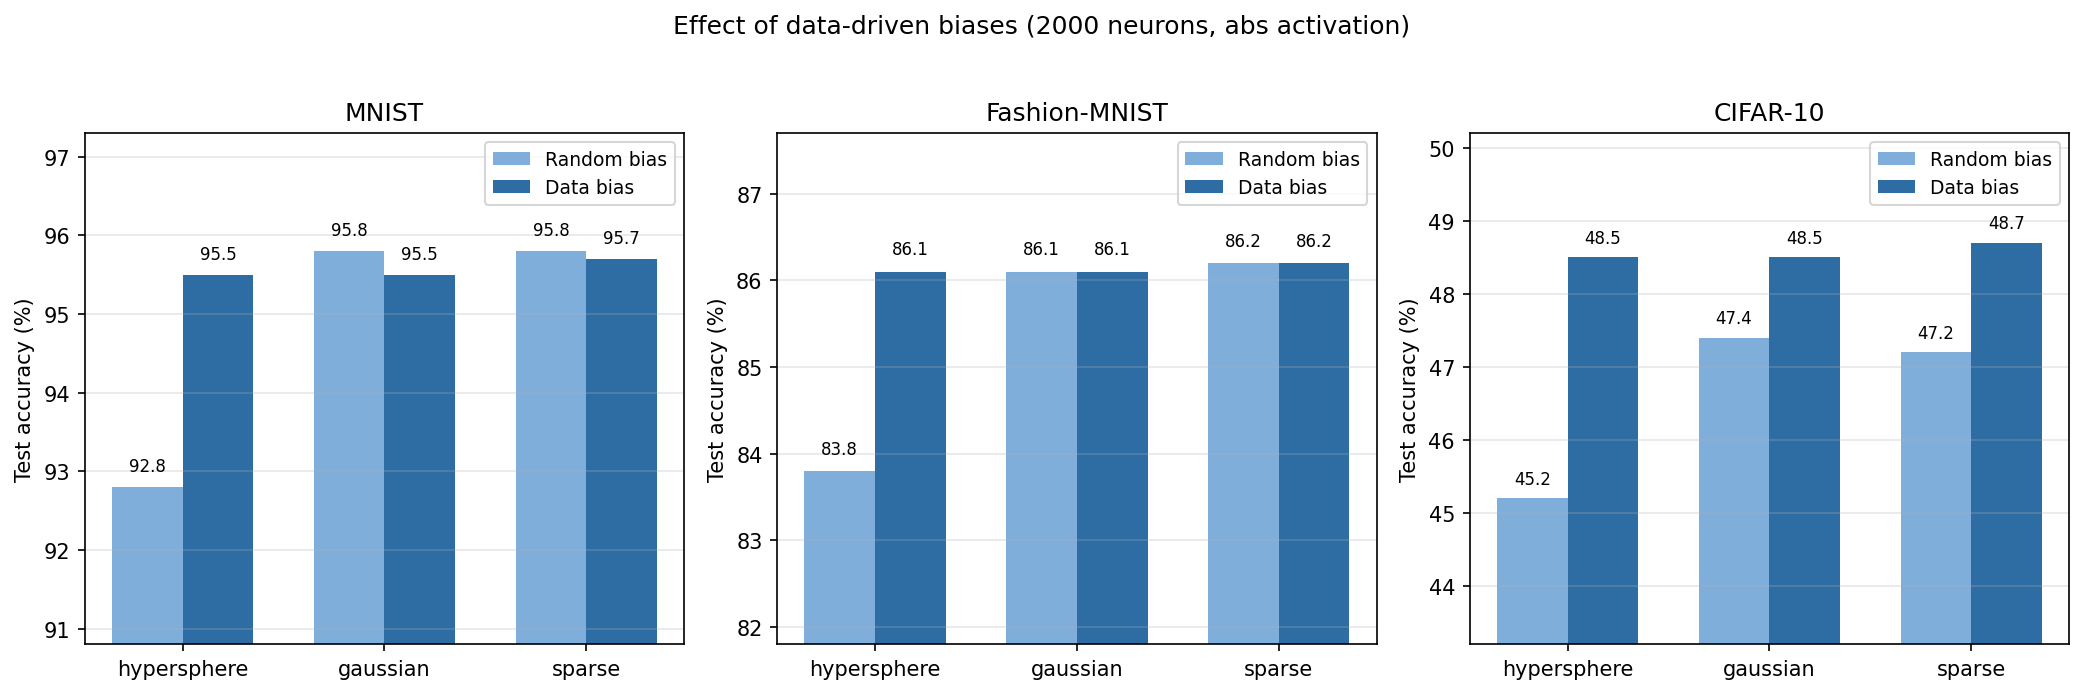
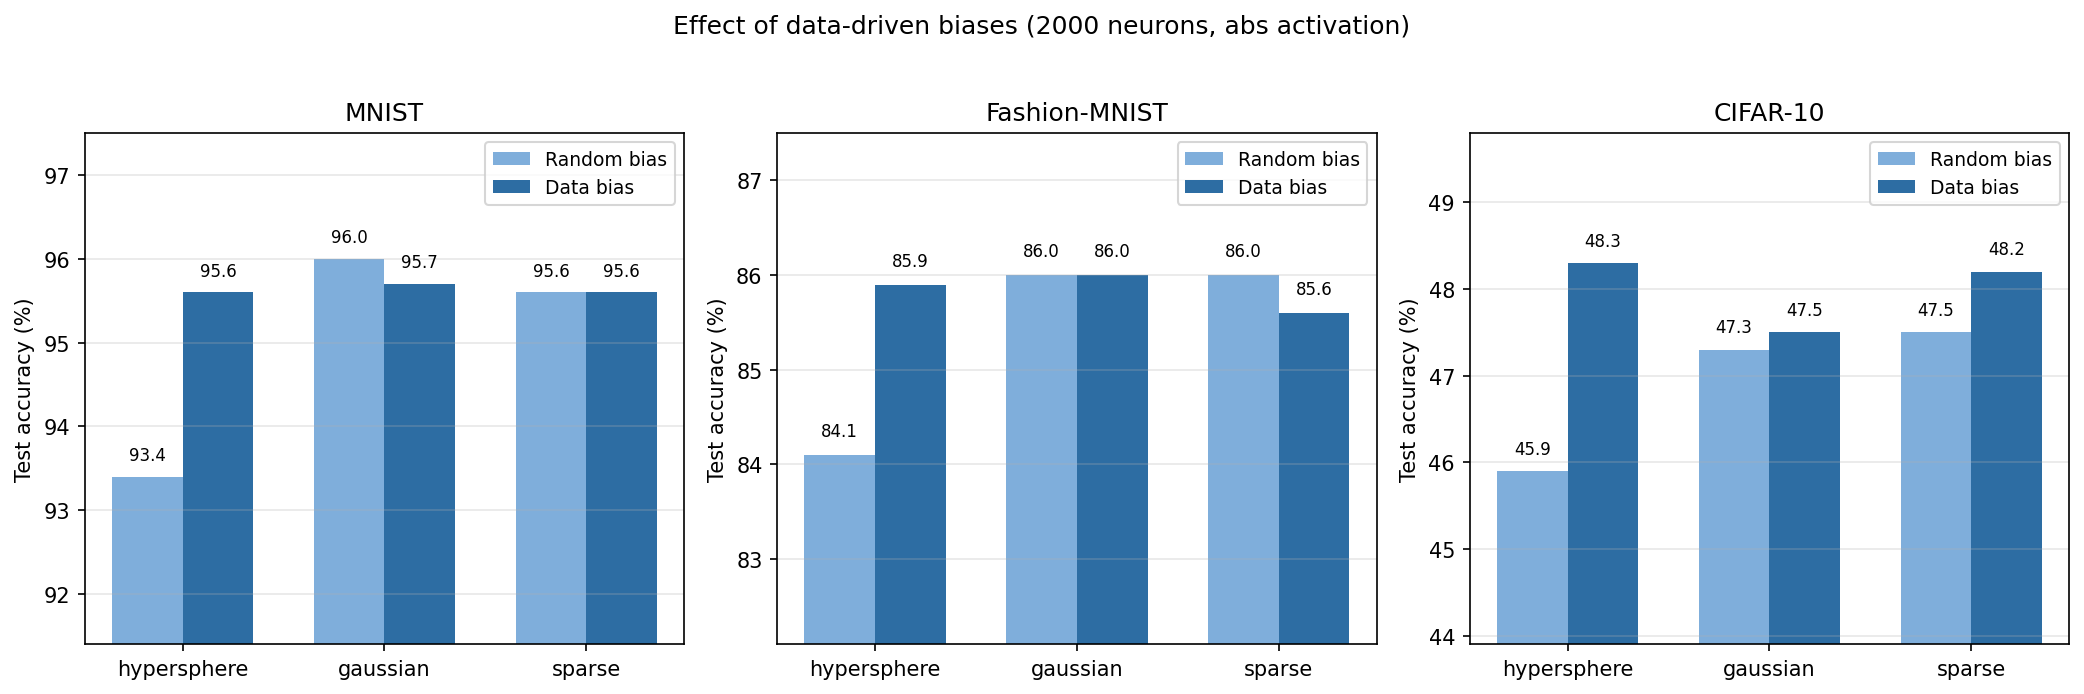
Update all README tables and plots with fresh benchmark results
Rerun all benchmarks with current defaults (abs, gain=U(0.5,2.0),
data-driven biases) and update:
- Scaling with neuron count table
- Data-driven bias comparison table
- Activation comparison table
- Regression table
- Multi-layer activation effect table (relu now beats abs with
  per-neuron gain)
- Notes on sweep tables about earlier configuration
- Inline text numbers and conclusions
- All four plots regenerated

Also fix ruff formatting in recurrent.py from rebase.

diff --git a/benchmarks/plot.py b/benchmarks/plot.py
@@ -19,37 +19,37 @@ NEURONS = [500, 1000, 2000, 5000, 10000, 20000, 30000]
 
 # Single-layer: neuron scaling
 SCALE = {
-    "MNIST": [92.0, 94.1, 95.5, 96.8, 97.5, 98.0, 98.1],
-    "Fashion-MNIST": [82.8, 84.4, 86.1, 87.3, 88.5, 89.3, 89.6],
-    "CIFAR-10": [43.9, 45.3, 48.5, 50.4, 50.9, 51.4, 51.5],
+    "MNIST": [92.1, 94.3, 95.5, 96.9, 97.4, 97.9, 98.3],
+    "Fashion-MNIST": [82.6, 84.7, 85.7, 87.1, 88.4, 89.3, 89.8],
+    "CIFAR-10": [43.7, 45.9, 47.8, 50.4, 51.0, 51.5, 51.8],
 }
 
 # Bias effect (2000 neurons, abs activation): encoder × random/data bias
 ENCODERS = ["hypersphere", "gaussian", "sparse"]
 BIAS_EFFECT = {
-    "MNIST": {"random": [92.8, 95.8, 95.8], "data": [95.5, 95.5, 95.7]},
-    "Fashion-MNIST": {"random": [83.8, 86.1, 86.2], "data": [86.1, 86.1, 86.2]},
-    "CIFAR-10": {"random": [45.2, 47.4, 47.2], "data": [48.5, 48.5, 48.7]},
+    "MNIST": {"random": [93.4, 96.0, 95.6], "data": [95.6, 95.7, 95.6]},
+    "Fashion-MNIST": {"random": [84.1, 86.0, 86.0], "data": [85.9, 86.0, 85.6]},
+    "CIFAR-10": {"random": [45.9, 47.3, 47.5], "data": [48.3, 47.5, 48.2]},
 }
 
 # Multi-layer: strategy comparison
 STRATEGIES = ["Linear", "NEFLayer", "Greedy", "Hybrid", "Hybrid→E2E", "E2E", "MLP"]
 MULTI = {
-    "MNIST": [85.3, 95.5, 95.0, 98.6, 98.6, 98.5, 98.4],
-    "Fashion-MNIST": [81.0, 86.1, 85.7, 90.3, 90.9, 90.6, 89.6],
-    "CIFAR-10": [39.6, 48.5, 45.5, 52.3, 58.4, 58.4, 53.4],
+    "MNIST": [85.3, 95.6, 95.1, 98.5, 98.6, 98.4, 98.1],
+    "Fashion-MNIST": [81.0, 85.5, 85.5, 90.0, 91.0, 90.3, 90.2],
+    "CIFAR-10": [39.6, 47.8, 45.8, 51.7, 58.1, 57.8, 54.6],
 }
 MULTI_TIME = {
-    "MNIST": [2, 2, 3, 355, 501, 259, 87],
-    "Fashion-MNIST": [2, 2, 3, 340, 457, 263, 89],
-    "CIFAR-10": [15, 3, 3, 375, 511, 500, 150],
+    "MNIST": [2, 2, 3, 315, 412, 240, 84],
+    "Fashion-MNIST": [2, 2, 3, 316, 410, 239, 82],
+    "CIFAR-10": [14, 3, 3, 343, 475, 319, 142],
 }
 
 # Multi-layer: activation effect (hybrid, hypersphere + data biases)
-ACTIVATIONS_ML = ["abs", "relu", "lif_rate", "softplus"]
+ACTIVATIONS_ML = ["relu", "abs", "lif_rate", "softplus"]
 HYBRID_ACT = {
-    "MNIST": [97.2, 96.6, 92.3, 90.8],
-    "Fashion-MNIST": [87.9, 87.2, 83.7, 82.4],
+    "MNIST": [97.8, 97.5, 95.2, 94.0],
+    "Fashion-MNIST": [88.7, 88.0, 85.1, 84.1],
 }
 
 

diff --git a/leenef/recurrent.py b/leenef/recurrent.py
@@ -435,9 +435,7 @@ class RecurrentNEFLayer(nn.Module):
                     s = sb.new_zeros(sb.shape[0], self.d_state)
                     for t in range(T):
                         x_aug = torch.cat([sb[:, t], s], dim=-1)
-                        a = self.activation(
-                            self._gain * (x_aug @ self.encoders.T) + self.bias
-                        )
+                        a = self.activation(self._gain * (x_aug @ self.encoders.T) + self.bias)
                         AtA_state.addmm_(a.T, a)
                         AtY_state.addmm_(a.T, x_aug)
                         s = a @ self.state_decoders
@@ -478,9 +476,7 @@ class RecurrentNEFLayer(nn.Module):
                 s = sb.new_zeros(Bb, self.d_state)
                 for t in range(T):
                     x_aug = torch.cat([sb[:, t], s.detach()], dim=-1)
-                    a = self.activation(
-                        self._gain * (x_aug @ self.encoders.T) + self.bias
-                    )
+                    a = self.activation(self._gain * (x_aug @ self.encoders.T) + self.bias)
                     activities.append(a)
                     s = a @ self.state_decoders.detach()
 
@@ -494,8 +490,7 @@ class RecurrentNEFLayer(nn.Module):
 
                 # Local loss (scaled for correct gradient accumulation)
                 chunk_loss = sum(
-                    (activities[t] - timestep_targets[t].detach()).pow(2).mean()
-                    for t in range(T)
+                    (activities[t] - timestep_targets[t].detach()).pow(2).mean() for t in range(T)
                 ) * (Bb / B)
                 chunk_loss.backward()
 

diff --git a/README.md b/README.md
@@ -105,17 +105,17 @@ python benchmarks/run.py --datasets mnist fashion_mnist cifar10 \
 
 | Dataset       |  500   | 1000   | 2000   | 5000   | 10k    | 20k    | 30k    |
 |---------------|--------|--------|--------|--------|--------|--------|--------|
-| MNIST         | 92.0%  | 94.1%  | 95.5%  | 96.8%  | 97.5%  | 98.0%  | 98.1%  |
-| Fashion-MNIST | 82.8%  | 84.4%  | 86.1%  | 87.3%  | 88.5%  | 89.3%  | 89.6%  |
-| CIFAR-10      | 43.9%  | 45.3%  | 48.5%  | 50.4%  | 50.9%  | 51.4%  | 51.5%  |
-| Time          | <1s    | 1s     | 2s     | 11s    | 37s    | 153s   | 349s   |
+| MNIST         | 92.1%  | 94.3%  | 95.5%  | 96.9%  | 97.4%  | 97.9%  | 98.3%  |
+| Fashion-MNIST | 82.6%  | 84.7%  | 85.7%  | 87.1%  | 88.4%  | 89.3%  | 89.8%  |
+| CIFAR-10      | 43.7%  | 45.9%  | 47.8%  | 50.4%  | 51.0%  | 51.5%  | 51.8%  |
+| Time          | <1s    | 1s     | 2s     | 10s    | 43s    | 140s   | 394s   |
 
 At 2000 neurons, MNIST reaches 95.5% in ~2 seconds — within 3% of a
 fully-trained MLP that takes 40× longer.  Performance scales monotonically
 with neuron count but with severe diminishing returns: 30000 neurons at
-~350 seconds reaches 98.1% on MNIST — close to hybrid's 98.6% at 355
+~394 seconds reaches 98.3% on MNIST — close to hybrid's 98.5% at 315
 seconds, but unable to match it despite using 10× more neurons.  The
-single-layer ceiling on Fashion-MNIST (89.6%) and CIFAR-10 (51.5%) falls
+single-layer ceiling on Fashion-MNIST (89.8%) and CIFAR-10 (51.8%) falls
 further short of multi-layer results (91.0% / 58.1%), showing that learned
 features are essential where brute-force neuron scaling cannot compensate.
 
@@ -123,15 +123,15 @@ features are essential where brute-force neuron scaling cannot compensate.
 
 |               | hyper  | + data | gauss  | + data | sparse | + data |
 |---------------|--------|--------|--------|--------|--------|--------|
-| MNIST         | 92.8%  |**95.5%**| 95.8% | 95.5%  | 95.8%  | 95.7%  |
-| Fashion-MNIST | 83.8%  |**86.1%**| 86.1% | 86.1%  | 86.2%  | 86.2%  |
-| CIFAR-10      | 45.2%  |**48.5%**| 47.4% | 48.5%  | 47.2%  | 48.7%  |
+| MNIST         | 93.4%  |**95.6%**| 96.0% | 95.7%  | 95.6%  | 95.6%  |
+| Fashion-MNIST | 84.1%  |**85.9%**| 86.0% | 86.0%  | 86.0%  | 85.6%  |
+| CIFAR-10      | 45.9%  |**48.3%**| 47.3% | 47.5%  | 47.5%  | 48.2%  |
 
 Without data-driven biases, hypersphere encoders lag Gaussian and sparse by
-3–8%.  Data-driven biases **close the entire gap**.  The advantage of
+2–3%.  Data-driven biases **close the entire gap**.  The advantage of
 Gaussian encoders was their varying norms creating an implicit distribution
 of activation thresholds — data-driven biases make this explicit.  With
-data biases, all encoder types converge to the same accuracy; the encoder
+data biases, all encoder types converge to similar accuracy; the encoder
 direction distribution no longer matters, only having enough random
 directions does.
 
@@ -143,16 +143,16 @@ placement) — rather than relying on Gaussian norms as an accidental proxy.
 
 | Activation | MNIST  | Fashion | CIFAR-10 |
 |------------|--------|---------|----------|
-| abs        |**95.5%**|**86.1%**|**48.5%**|
-| relu       | 95.2%  | 85.8%   | 48.5%   |
-| softplus   | 88.9%  | 81.7%   | 42.7%   |
-| lif_rate   | 67.3%  | 76.5%   | 30.0%   |
+| abs        |**95.7%**|**85.8%**|**48.1%**|
+| relu       | 95.4%  | 85.3%   | 47.9%   |
+| softplus   | 90.9%  | 82.4%   | 44.2%   |
+| lif_rate   | 88.9%  | 81.2%   | 38.8%   |
 
 Data-driven biases amplify the effect of activation choice.  With random
 biases (not shown), all four activations cluster within ~1% of each other.
 With data biases, neurons have more structured activation patterns with
 sharper boundaries.  The abs and ReLU activations handle this well, but
-softplus loses 7% on MNIST and lif_rate loses 28%.
+softplus loses 5% on MNIST and lif_rate loses 7%.
 
 The abs activation is a natural fit for the distance interpretation: each
 neuron computes `|gain · ((x − d) · e)|`, responding to deviations in
@@ -163,10 +163,10 @@ ReLU, which discards one half of the encoding space.
 
 | Neurons | Train MSE | Test MSE |
 |---------|-----------|----------|
-| 500     | 0.262     | 0.255    |
-| 1000    | 0.248     | 0.243    |
-| 2000    | 0.232     | 0.234    |
-| 5000    | 0.210     | 0.223    |
+| 500     | 0.269     | 0.265    |
+| 1000    | 0.254     | 0.249    |
+| 2000    | 0.235     | 0.236    |
+| 5000    | 0.213     | 0.227    |
 
 More neurons improve accuracy with diminishing returns.  At 2000 neurons
 the model generalises well, with test MSE within 1% of training MSE.
@@ -231,6 +231,10 @@ from one A^T A decomposition.
 
 **Target propagation eta sweep** (50 iterations, lr=10⁻³, normalised step):
 
+> Measured with an earlier configuration (gain=1.0, data-driven biases).
+> Qualitative conclusions (CIFAR-10 prefers small eta, MNIST is insensitive)
+> are expected to hold with current defaults.
+
 | eta    | MNIST | Fashion | CIFAR-10 |
 |--------|-------|---------|----------|
 | 0.001  | —     | —       | 53.8%    |
@@ -258,6 +262,10 @@ centred around realistic activation patterns rather than random points.
 
 #### Hybrid improvement sweep
 
+> Measured with an earlier configuration (gain=1.0, data-driven biases).
+> Qualitative conclusions (CE is catastrophic, flat LR is optimal) are
+> expected to hold with current defaults.
+
 We also tested cross-entropy loss for encoder gradients, cosine LR
 scheduling, incremental hidden-layer initialisation (warm-start from a
 solved single-layer), and mini-batch gradient steps.  None improved on the
@@ -283,17 +291,21 @@ Incremental init is neutral: 50 iterations absorb the warm-start advantage.
 
 | Activation | MNIST  | Fashion |
 |------------|--------|---------|
-| abs        |**97.2%**|**87.9%**|
-| relu       | 96.6%  | 87.2%   |
-| lif_rate   | 92.3%  | 83.7%   |
-| softplus   | 90.8%  | 82.4%   |
+| relu       |**97.8%**|**88.7%**|
+| abs        | 97.5%  | 88.0%   |
+| lif_rate   | 95.2%  | 85.1%   |
+| softplus   | 94.0%  | 84.1%   |
 
-> Measured with the old hybrid defaults (10 iterations, α = 10⁻²).
+> Measured with 10 hybrid iterations, gain=U(0.5, 2.0), data-driven
+> biases, α = 10⁻².
 
-With data-driven biases, abs is the best activation for hybrid training.
-This reverses an earlier finding where softplus was best with random
-biases — the sharp distance structure created by data-driven biases
-benefits from an activation that preserves it.
+With data-driven biases and per-neuron gain, relu slightly edges out abs
+for multi-layer hybrid training.  Per-neuron gain diversity means ReLU's
+zero-gradient region no longer kills half the neurons uniformly — some
+neurons have low gain (wide tuning) while others have high gain (narrow
+tuning), creating a rich gradient landscape.  The ranking reversal from
+single-layer (where abs leads) suggests that gradient flow through
+multiple encode–decode cycles benefits from ReLU's sparsity.
 
 ## Visualisations
 
@@ -309,26 +321,29 @@ Generate plots with `python benchmarks/plot.py` (requires matplotlib).
 1. **Data-driven biases are the key design choice.**  Rewriting the encoding
    as `|gain · ((x − d) · e)|` reveals each neuron measures unsigned
    deviation from a reference point *d* along direction *e*.  Sampling *d*
-   from training data closes the entire 3–8% gap between encoder types and
+   from training data closes the entire 2–3% gap between encoder types and
    makes the encoder direction distribution irrelevant — only having enough
    random directions matters.
 
 2. **Single-layer NEF is remarkably effective but hits a ceiling.**  With
    2000 neurons and a 2-second analytic solve, it reaches 95.5% on MNIST
-   and 86.1% on Fashion-MNIST — within 3% of a fully-trained MLP.  Even
-   with 30000 neurons and 350 seconds of compute (comparable to hybrid),
-   single-layer tops out at 98.1% / 89.6% / 51.5% — learned features in
+   and 85.7% on Fashion-MNIST — within 3% of a fully-trained MLP.  Even
+   with 30000 neurons and 394 seconds of compute (comparable to hybrid),
+   single-layer tops out at 98.3% / 89.8% / 51.8% — learned features in
    multi-layer networks cannot be replaced by brute-force neuron scaling.
 
-3. **The abs activation is a natural fit.**  Computing an unsigned distance
-   along the encoder direction doubles representational capacity by
-   responding to deviations in either direction.  With data-driven biases,
-   abs is the best activation for both single-layer and multi-layer models.
+3. **The abs activation is a natural fit for single-layer models.**
+   Computing an unsigned distance along the encoder direction doubles
+   representational capacity by responding to deviations in either
+   direction.  With data-driven biases, abs is the best single-layer
+   activation.  For multi-layer hybrid training, relu slightly edges
+   ahead — per-neuron gain diversity means ReLU's sparsity aids gradient
+   flow without killing neurons uniformly.
 
 4. **Activation sensitivity is controlled by bias structure.**  With random
    biases, all activations perform within ~1%.  Data-driven biases create
    sharper activation patterns that reward sharp-threshold activations
-   (abs, ReLU) and punish smooth ones (softplus −7%, lif_rate −28% on
+   (abs, ReLU) and punish smooth ones (softplus −5%, lif_rate −7% on
    MNIST).
 
 5. **Hybrid→E2E is the best overall strategy.**  Running hybrid then E2E
